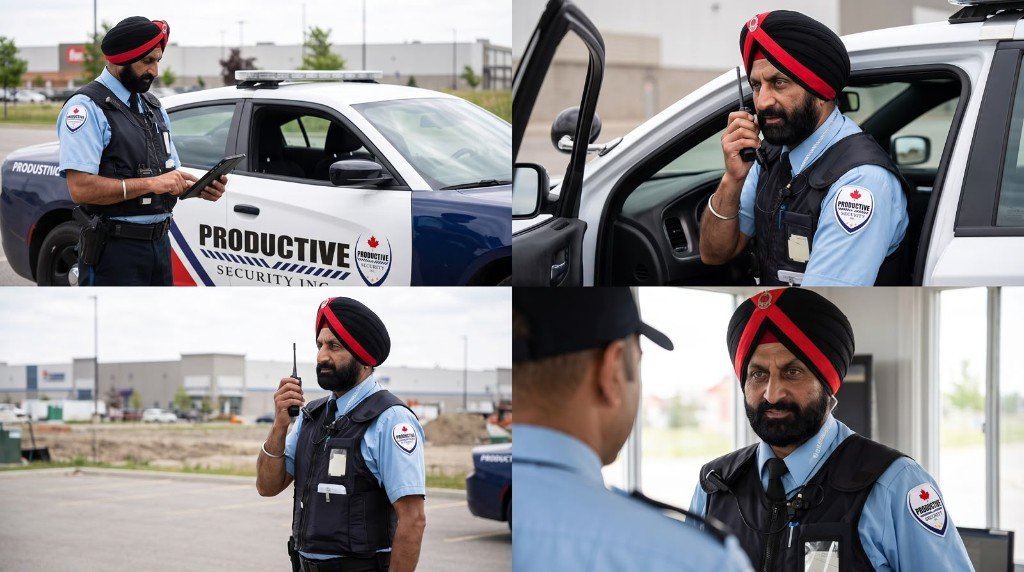
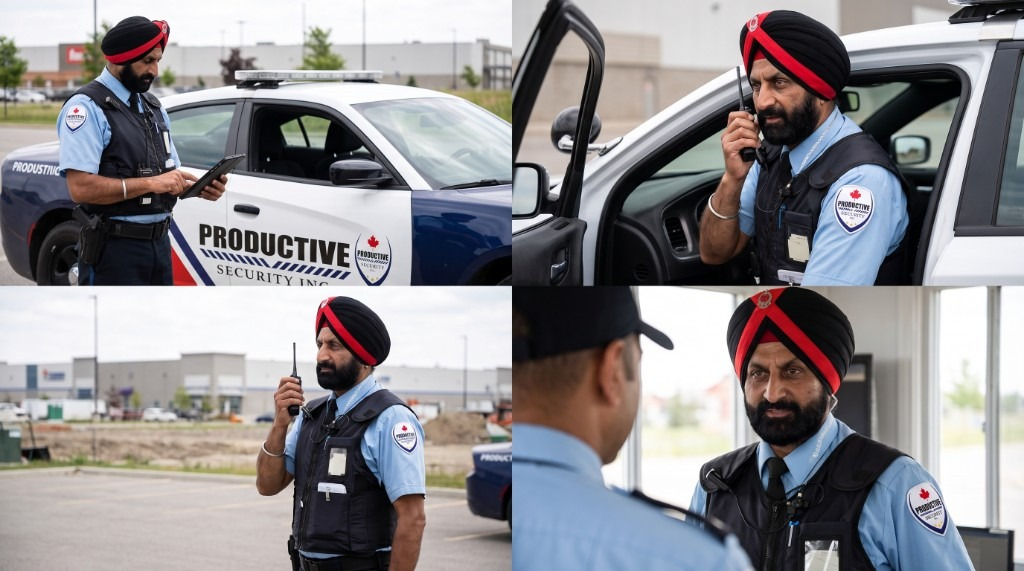
Swap in new HD photography for the slideshow and team card spread
The gallery and the /teams spread were sharing the same handful of low-res
photos, so the same officer appeared twice on one screen. Replace them with
five distinct HD frames and delete the assets nothing referenced any more.

The slideshow images are tall portraits dropped into a wide panel, so
object-cover discards most of the height — focalFor() sets a per-image focal
point rather than one shared value that would decapitate half of them.

diff --git a/src/data/brandAssets.ts b/src/data/brandAssets.ts
@@ -13,16 +13,16 @@
  * `public/` now holds only what needs a stable, externally-addressable URL:
  * favicons, robots/sitemap, the OG cover, and the hero film.
  */
-import cardCloseup from "../assets/img/card-closeup.jpg";
 import careersHero from "../assets/img/careers-hero.jpg";
 import collage from "../assets/img/collage.jpg";
 import guard from "../assets/img/guard.jpg";
+import guardIdCheck from "../assets/img/guard-id-check.jpg";
+import guardLobby from "../assets/img/guard-lobby.jpg";
+import guardMuseum from "../assets/img/guard-museum.jpg";
 import heroFrame from "../assets/img/hero-frame.jpg";
-import officersOnPatrol from "../assets/img/officers-on-patrol.jpg";
-import patrolPortrait from "../assets/img/patrol-portrait.jpg";
-import supervisorPortrait from "../assets/img/supervisor-portrait.jpg";
+import supervisorNight from "../assets/img/supervisor-night.jpg";
 import teamPortrait from "../assets/img/team-portrait.jpg";
-import teamsCollage from "../assets/img/teams-collage.jpg";
+import teamSupervisorSuv from "../assets/img/team-supervisor-suv.jpg";
 import logoCrest from "../assets/img/logo-crest.png";
 import logoCrestSvg from "../assets/img/logo-crest.svg";
 import logoMark from "../assets/img/logo-mark.png";
@@ -55,14 +55,14 @@ export const brandImages = {
   collage,
   careersHero,
   services: servicesPhoto,
-  /** Teams hero — six-panel field collage. */
-  teamsCollage,
-  /** Cards for the team spread, fanned back-to-front. */
-  officersOnPatrol,
-  supervisorPortrait,
+  /** Teams hero — supervisor and officers at the patrol vehicle. */
+  teamSupervisorSuv,
+  /** Cards for the team spread. The group portrait is the featured centre. */
+  guardLobby,
+  guardIdCheck,
   teamPortrait,
-  patrolPortrait,
-  cardCloseup,
+  guardMuseum,
+  supervisorNight,
   /** Home / services sector card photography. */
   serviceCommercial,
   serviceConstruction,

diff --git a/src/components/Slideshow.tsx b/src/components/Slideshow.tsx
@@ -29,11 +29,16 @@ const GALLERY = Object.entries(
  * low in frame — a top-biased crop cuts him out entirely).
  */
 function focalFor(path: string) {
-  if (path.includes("team-portrait")) return "50% 58%"; // supervisor sits front-row centre
-  if (path.includes("supervisor-portrait")) return "50% 20%";
-  if (path.includes("patrol-portrait")) return "50% 20%";
-  if (path.includes("officers-on-patrol")) return "50% 32%";
-  return "50% 35%";
+  // Landscape frame — the supervisor stands right of centre.
+  if (path.includes("team-supervisor-suv")) return "56% 50%";
+  // Tall officer portrait — keep face and vest branding in frame.
+  if (path.includes("supervisor-portrait")) return "50% 22%";
+  // The rest are tall portraits: bias the crop up so faces survive it.
+  if (path.includes("guard-museum")) return "42% 26%";
+  if (path.includes("guard-id-check")) return "50% 24%";
+  if (path.includes("guard-lobby")) return "50% 26%";
+  if (path.includes("supervisor-night")) return "50% 22%";
+  return "50% 30%";
 }
 
 /** Fast enough to feel alive, slow enough to actually read the photo. */

diff --git a/src/pages/teams/TeamsIndex.tsx b/src/pages/teams/TeamsIndex.tsx
@@ -24,10 +24,9 @@ export default function TeamsIndex() {
         // lines. This is a complete sentence and wraps cleanly.
         title="We align leadership, officers, and patrol rhythm to your account."
         description="Effective security is not headcount alone. Account direction, field supervision, and patrol design work together, so the standard holds at 2 a.m. on a Tuesday exactly as it does in a Monday board review. Choose the mix that matches your risk, your hours, and how your property actually runs."
-        imageSrc={brandImages.teamPortrait}
-        imageAlt="The Productive Security team"
-        // Supervisor is front-row centre, so the crop is biased low.
-        objectClass="object-[50%_58%]"
+        imageSrc={brandImages.teamSupervisorSuv}
+        imageAlt="Productive Security supervisor and officers at the patrol vehicle"
+        objectClass="object-[58%_center]"
         minHeightClass="min-h-[min(52svh,380px)] sm:min-h-[min(58svh,460px)] lg:min-h-[min(84svh,760px)]"
         actions={
           <Link
@@ -64,12 +63,12 @@ export default function TeamsIndex() {
           <CardSpread
             className="mt-16 h-[22rem] sm:h-[26rem] lg:mt-20 lg:h-[30rem]"
             cards={[
-              { src: brandImages.officersOnPatrol, alt: "Two officers on patrol", x: -170, rotate: -14, z: 10 },
-              { src: brandImages.supervisorPortrait, alt: "Field supervisor", x: -88, rotate: -7, z: 20 },
+              { src: brandImages.guardMuseum, alt: "Officer on gallery post", x: -170, rotate: -14, z: 10 },
+              { src: brandImages.guardLobby, alt: "Officer on lobby post", x: -88, rotate: -7, z: 20 },
               // The group portrait is the point of the section: front, centre, largest.
               { src: brandImages.teamPortrait, alt: "The Productive Security team", x: 0, rotate: 0, z: 30, scale: 1.1 },
-              { src: brandImages.patrolPortrait, alt: "Officer on patrol", x: 88, rotate: 7, z: 20 },
-              { src: brandImages.cardCloseup, alt: "Officer in uniform", x: 170, rotate: 14, z: 10 },
+              { src: brandImages.guardIdCheck, alt: "Officer checking ID at an access gate", x: 88, rotate: 7, z: 20 },
+              { src: brandImages.supervisorNight, alt: "Supervisor on night patrol", x: 170, rotate: 14, z: 10 },
             ]}
           />
         </Container>